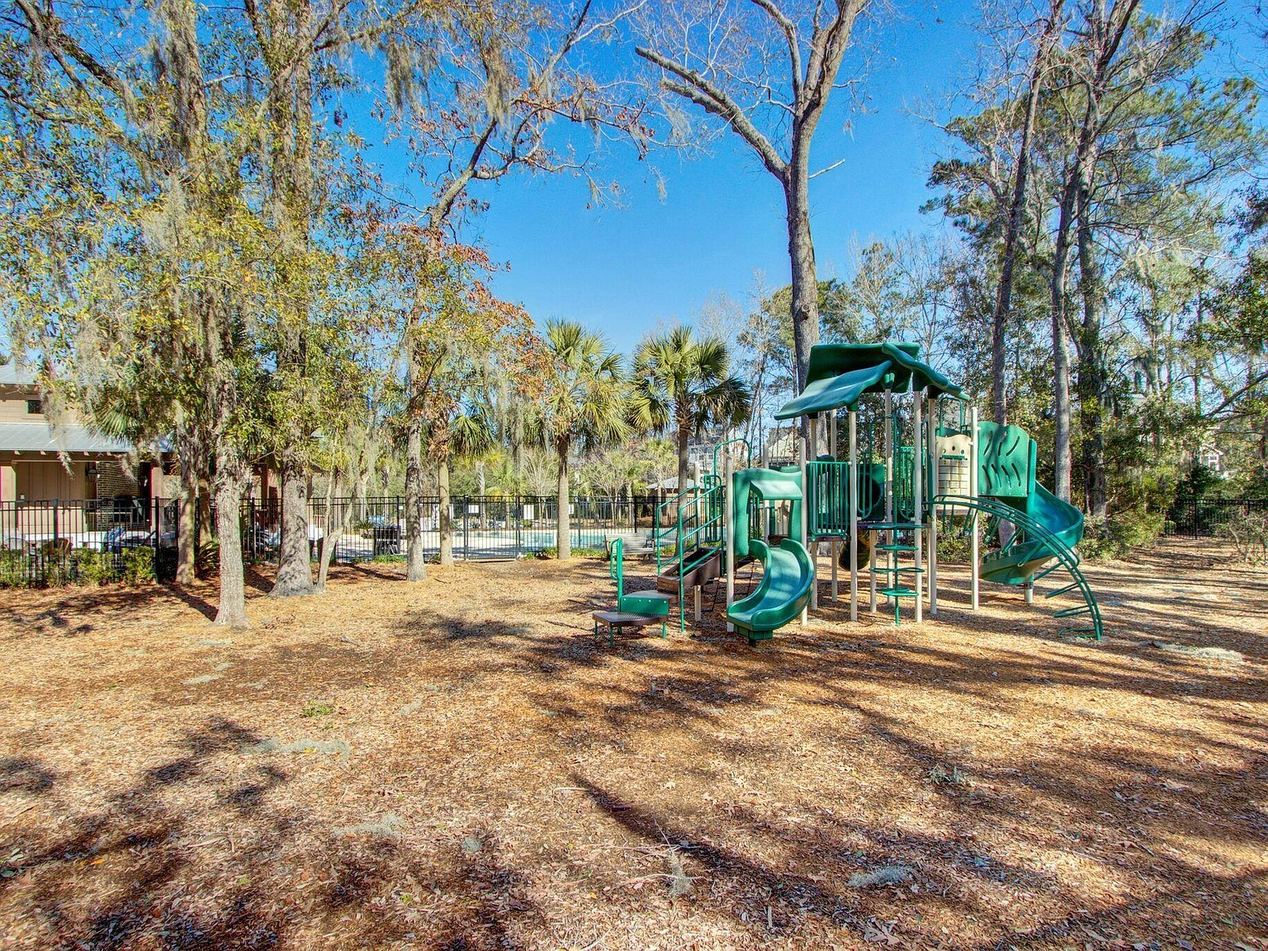
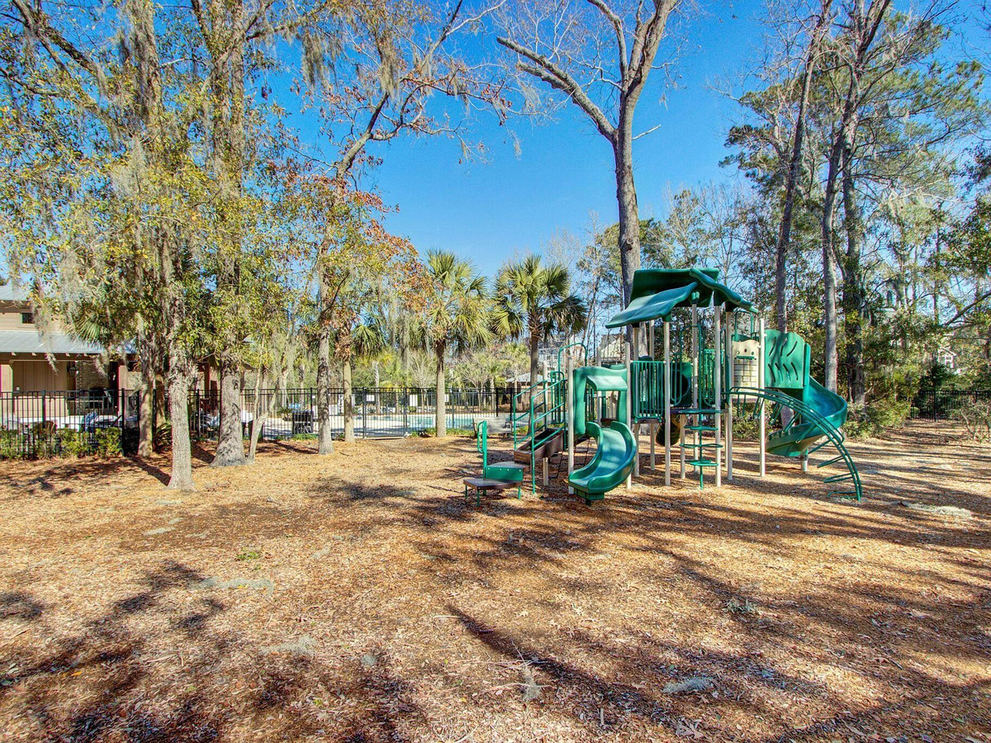
optimize images

Changed region(s): [[0.0, 0.0, 1.0, 1.0]]

diff --git a/index.html b/index.html
@@ -18,7 +18,7 @@
 		<div id="header-row" class="row">
 			<div class="col-md-12">
 				<div class="page-header">
-					<img width="100%" height="auto" alt="Carolina Bay, West Ashley, Charlest, South Carolina" src="images/logo.png" />
+					<img width="100%" height="auto" alt="Carolina Bay, West Ashley, Charlest, South Carolina" src="images/logo.jpg" />
 				</div>
 				<!-- <ul class="nav">
 					<li class="nav-item">
@@ -86,7 +86,7 @@
 							<div class="col-md-4">
 								<div class="hood">
 									<a href="https://www.zillow.com/homes/for_sale/12m_days/globalrelevanceex_sort/32.818576,-80.057255,32.79771,-80.077468_rect/15_zm/a9a875cb41X1-CR1fay1frakgfwe_10u0gd_crid/0_mmm/" target="_blank">
-										<img class="sub_img" src="images/cb-creekside.png" align="top"/>
+										<img class="sub_img" src="images/cb-creekside.jpg" align="top"/>
 										<strong>Creekside</strong>
 									</a>
 								</div>
@@ -94,7 +94,7 @@
 							<div class="col-md-4">
 								<div class="hood">
 									<a href="https://www.zillow.com/homes/for_sale/house_type/12m_days/globalrelevanceex_sort/32.814699,-80.044938,32.793832,-80.065151_rect/15_zm/a9a815cb41X1-CR1fay1fraja7pa_10u0gd_crid/0_mmm/" target="_blank">
-										<img class="sub_img" src="images/cb-essex.png" align="top"/>
+										<img class="sub_img" src="images/cb-essex.jpg" align="top"/>
 										<strong>Essex</strong>
 									</a>
 								</div>
@@ -130,7 +130,7 @@
 					</ol>
 					<div class="carousel-inner">
 						<div class="carousel-item">
-							<img class="d-block w-100" title="Photo by Chad Hartwell" alt="Carolina Bay Sunset" src="images/cb-sunset.png">
+							<img class="d-block w-100" title="Photo by Chad Hartwell" alt="Carolina Bay Sunset" src="images/cb-sunset.jpg">
 							<div class="carousel-caption">
 							</div>
 						</div>
